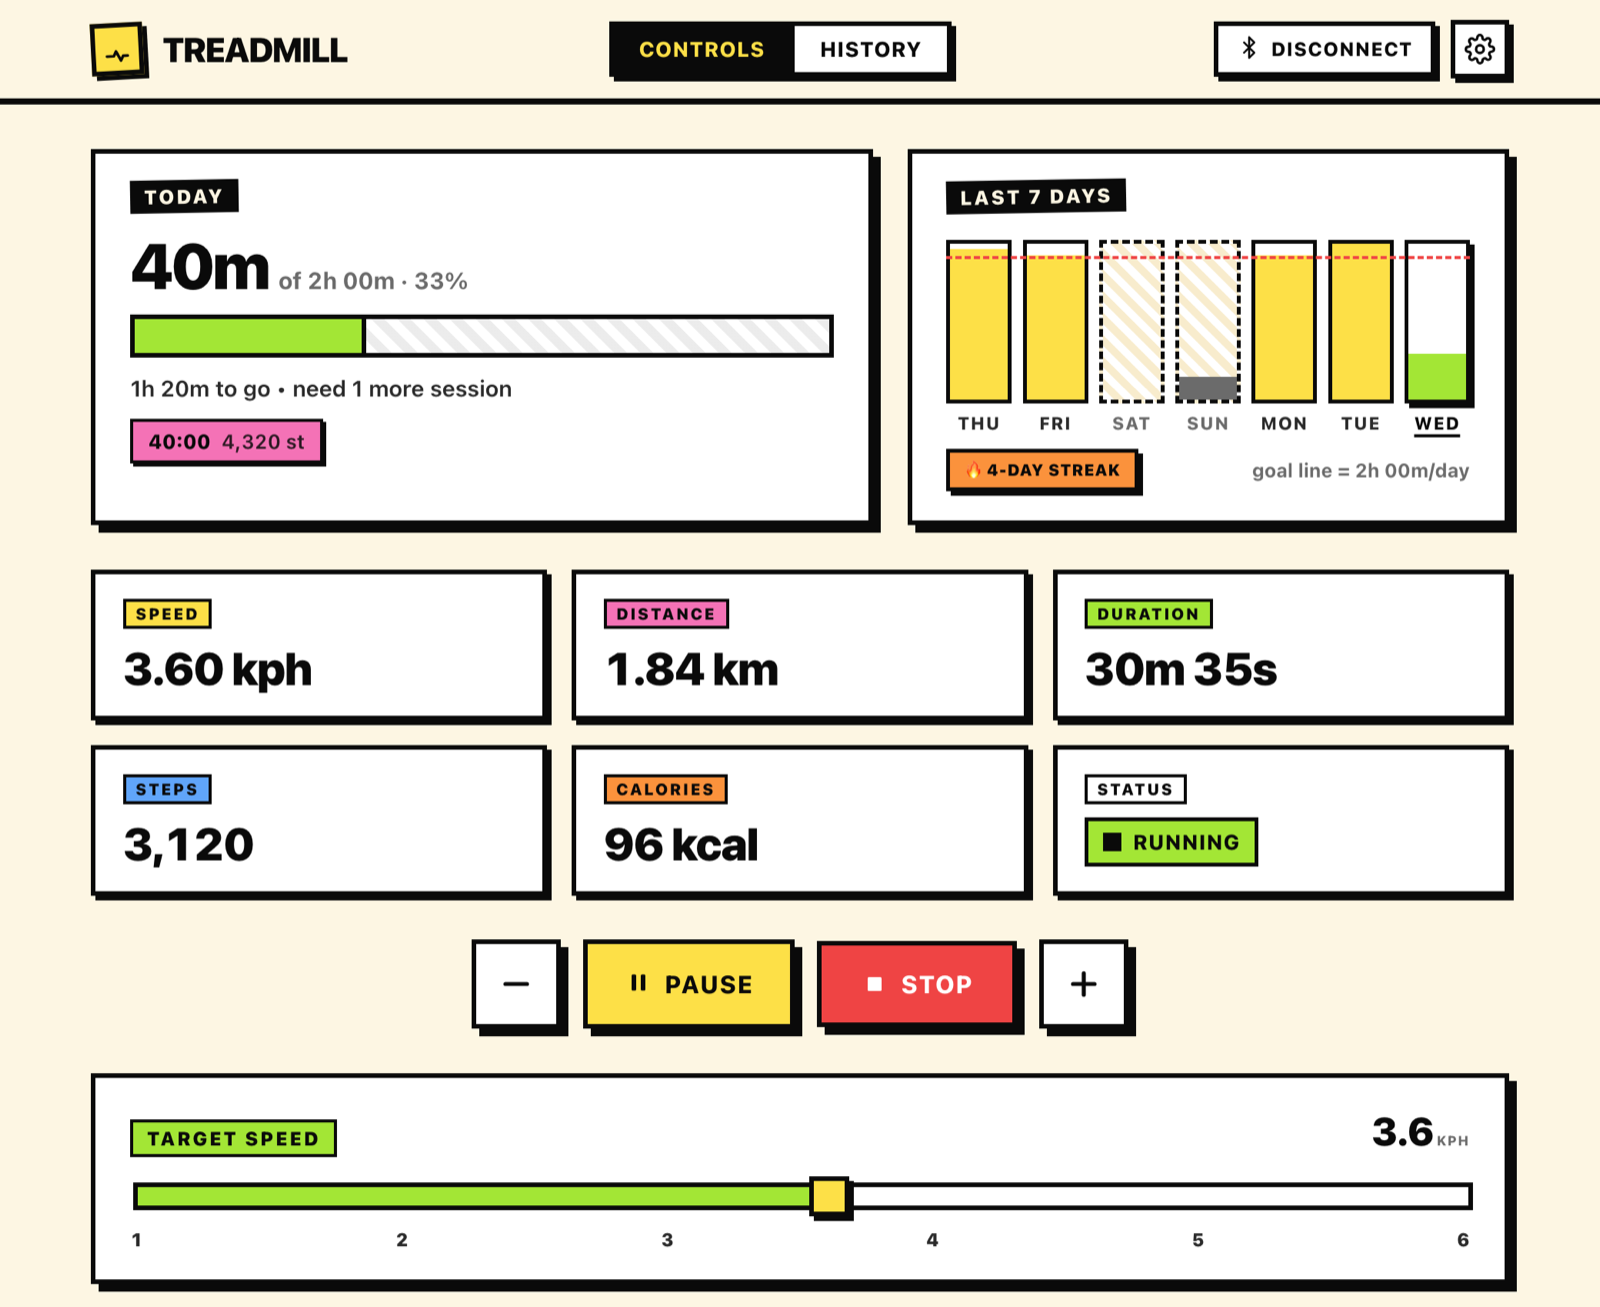
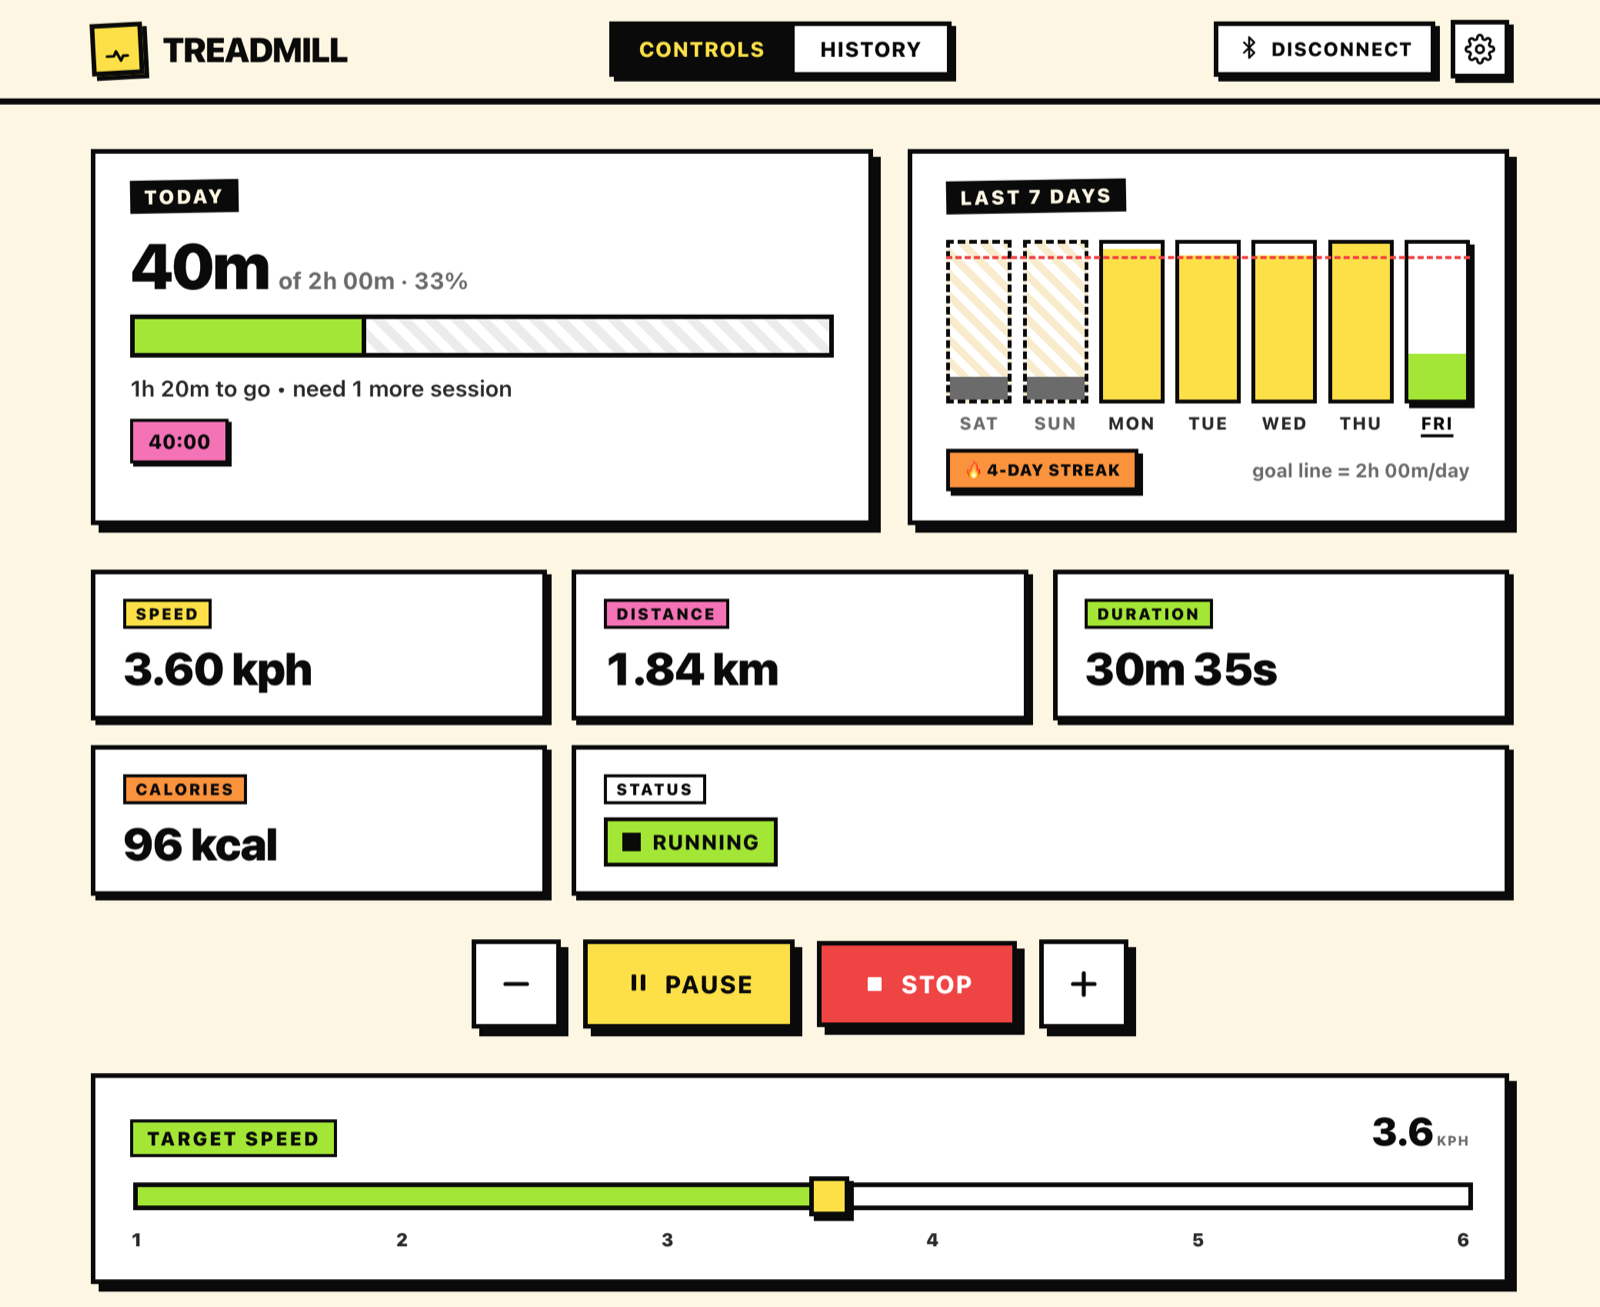
fix: slider follows the treadmill's speed; remove steps
- Speed slider: connecting mid-walk left it at 1 km/h, so +/- stepped
  from 1.0 instead of the real speed (4.0 + 0.1 sent 1.1). Follow the
  target speed the treadmill reports (bytes 5..6) while running,
  including changes made with the remote. Hold off while the slider is
  dragged or our own command is still taking effect; fall back to the
  current speed only when no target is reported.
- Steps: the step fields never reported anything on the test treadmill.
  Drop the Steps tile, the History column, the per-walk badge and step
  recording. Old history entries keep their steps field; it is just no
  longer shown.
- Service worker: revalidate with the server (cache: no-cache), so the
  browser's HTTP cache can't serve an old index.html next to new scripts
  after an update.

diff --git a/treadmill.js b/treadmill.js
@@ -14,7 +14,6 @@ const btNotice = document.getElementById('btNotice');
 const speedDiv = document.getElementById('speed');
 const distanceDiv = document.getElementById('distance');
 const caloriesDiv = document.getElementById('calories');
-const stepsDiv = document.getElementById('steps');
 const durationDiv = document.getElementById('duration');
 const startBtn = document.getElementById('startBtn');
 const stopBtn = document.getElementById('stopBtn');
@@ -76,7 +75,7 @@ function renderSessionTable() {
     historyTableBody.replaceChildren();
     if (sessions.length === 0) {
         const td = historyTableBody.insertRow().insertCell();
-        td.colSpan = 6;
+        td.colSpan = 5;
         td.className = 'history-empty';
         td.textContent = 'No sessions yet — your walks will appear here.';
         return;
@@ -87,7 +86,6 @@ function renderSessionTable() {
         if (!isNaN(avgSpeed)) {
             avgSpeedDisplay = avgSpeed.toFixed(2) + ' ' + (s.speedUnit || '');
         }
-        const stepsDisplay = (typeof s.steps === 'number') ? s.steps.toLocaleString() : (s.steps || '—');
         const tr = historyTableBody.insertRow();
         const addCell = (text, className) => {
             const td = tr.insertCell();
@@ -97,7 +95,6 @@ function renderSessionTable() {
         };
         addCell(formatSessionDate(s.date));
         addCell(formatDuration(s.duration || 0));
-        addCell(stepsDisplay, 'num');
         addCell(s.calories || '—', 'num');
         addCell(avgSpeedDisplay, 'num');
         const deleteBtn = document.createElement('button');
@@ -187,7 +184,6 @@ function updateDashboard(data) {
     speedDiv.textContent = data.speed || '—';
     distanceDiv.textContent = data.distance || '—';
     caloriesDiv.textContent = data.calories || '—';
-    stepsDiv.textContent = (data.steps !== undefined && data.steps !== null && data.steps !== '-') ? data.steps : '—';
     if (data.duration && typeof data.duration === 'number') {
         durationDiv.textContent = formatDuration(data.duration);
     } else if (typeof data.duration === 'string' && !isNaN(parseFloat(data.duration))) {
@@ -281,8 +277,34 @@ function formatDuration(seconds) {
 }
 
 let pendingData = null;
+let lastCommandMs = 0;
 function send_data(packet) {
     pendingData = packet;
+    lastCommandMs = Date.now();
+}
+
+// The slider follows the treadmill's own target speed, so it is right after connecting mid-walk or
+// after a change on the remote. Otherwise +/- would step from a stale value (e.g. 4.0 → 1.1).
+// It holds off while the user drags the slider or a command of ours is still taking effect.
+const SPEED_FOLLOW_GRACE_MS = 3000;
+const SPEED_FOLLOW_FALLBACK_GRACE_MS = 15000;
+let sliderHeld = false;
+function followTreadmillSpeed(targetSpeed, currentSpeed) {
+    if (pendingData || sliderHeld) return;
+    const sinceCommand = Date.now() - lastCommandMs;
+    let speed;
+    if (targetSpeed >= 1000 && targetSpeed <= 6000) {
+        if (sinceCommand < SPEED_FOLLOW_GRACE_MS) return;
+        speed = targetSpeed;
+    } else {
+        // No usable target speed: the current speed lags while the belt ramps up, so wait longer after a command.
+        if (sinceCommand < SPEED_FOLLOW_FALLBACK_GRACE_MS) return;
+        speed = currentSpeed;
+    }
+    speed = Math.round(speed / 100) * 100;
+    if (speed < 1000 || speed > 6000 || speed === curTargetSpeed) return;
+    curTargetSpeed = speed;
+    syncSliderToTargetSpeed();
 }
 
 function bluetoothUnavailableMessage() {
@@ -427,7 +449,6 @@ function handleNotification(event) {
             speed: "-",
             distance: "-",
             calories: "-",
-            steps: "-",
             duration: "-",
             status: "Invalid"
         };
@@ -448,9 +469,9 @@ function handleNotification(event) {
     }
 
     const current_speed = u16(3);
+    const target_speed = u16(5);
     const distance = u32(7);
     const calories = (value.getUint8(18) << 8) | value.getUint8(19);
-    const steps = u32(14);
     const duration = u32(20);
     const flags = value.getUint8(26);
     const unit_mode = (flags & 128) === 128 ? 1 : 0;
@@ -467,15 +488,15 @@ function handleNotification(event) {
         speed: (current_speed / 1000).toFixed(2) + " " + speed_unit,
         distance: (distance / 1000).toFixed(2) + " " + distance_unit,
         calories: calories + " kcal",
-        steps: steps,
         duration: Math.round(duration / 1000),
         status: statusArr[running_state] || "Unknown",
-        _raw: { current_speed, distance, calories, steps, duration, speed_unit }
+        _raw: { current_speed, target_speed, distance, calories, duration, speed_unit }
     };
 
     debugLog("Parsed treadmill data:", treadmillData);
     updateDashboard(treadmillData);
     updateRunningState(running_state);
+    if (running_state === 1) followTreadmillSpeed(target_speed, current_speed);
 
     const MERGE_WINDOW_MS = 60 * 1000;
     const MAX_TICK_MS = 10 * 1000;
@@ -491,14 +512,13 @@ function handleNotification(event) {
                 const lastEnd = last.date + last.duration * 1000;
                 const inWindow = now - lastEnd < MERGE_WINDOW_MS && now - lastEnd > -MAX_TICK_MS;
                 const prevKcal = parseFloat(last.calories) || 0;
-                const countersConsistent = steps >= (last.steps || 0) && calories >= prevKcal;
+                const countersConsistent = calories >= prevKcal;
                 if (inWindow && countersConsistent) resumed = last;
             }
             if (resumed) {
                 const prevKcal = parseFloat(resumed.calories) || 0;
                 sessionStartData = {
                     date: resumed.date,
-                    stepsBase: steps - (resumed.steps || 0),
                     calBase: calories - prevKcal,
                     durMsAccum: (resumed.duration || 0) * 1000,
                     lastTickMs: now,
@@ -509,7 +529,6 @@ function handleNotification(event) {
             } else {
                 sessionStartData = {
                     date: now,
-                    stepsBase: steps,
                     calBase: calories,
                     durMsAccum: 0,
                     lastTickMs: now,
@@ -528,13 +547,11 @@ function handleNotification(event) {
         }
 
         const durationSec = Math.round(sessionStartData.durMsAccum / 1000);
-        const sessionSteps = Math.max(0, steps - sessionStartData.stepsBase);
         const sessionCal = Math.max(0, calories - sessionStartData.calBase);
         const avgSpeed = (sessionStartData.speedSum / sessionStartData.speedCount) / 1000;
         upsertLiveSession({
             date: sessionStartData.date,
             duration: durationSec,
-            steps: sessionSteps,
             calories: sessionCal + ' kcal',
             avgSpeed: avgSpeed,
             speedUnit: sessionStartData.speedUnit || ''
@@ -679,6 +696,8 @@ speedDownBtn.addEventListener('click', () => {
 speedSlider.addEventListener('input', () => {
     sliderValue.textContent = parseFloat(speedSlider.value).toFixed(1);
 });
+speedSlider.addEventListener('pointerdown', () => { sliderHeld = true; });
+['pointerup', 'pointercancel'].forEach(type => window.addEventListener(type, () => { sliderHeld = false; }));
 speedSlider.addEventListener('change', () => {
     if (!connected) return;
     curTargetSpeed = Math.round(parseFloat(speedSlider.value) * 1000);

diff --git a/index.html b/index.html
@@ -230,7 +230,6 @@
         }
         .session-chip:nth-child(3n+2) { background: var(--blue); }
         .session-chip:nth-child(3n) { background: var(--lime); }
-        .session-chip .chip-meta { font-weight: 600; opacity: 0.85; margin-left: 4px; }
         .session-chip--short { background: var(--surface) !important; color: var(--ink-mute); }
         .session-chip--empty {
             background: transparent;
@@ -407,9 +406,9 @@
         .stat:nth-child(1) .stat-label-pill { background: var(--yellow); }
         .stat:nth-child(2) .stat-label-pill { background: var(--pink); }
         .stat:nth-child(3) .stat-label-pill { background: var(--lime); }
-        .stat:nth-child(4) .stat-label-pill { background: var(--blue); }
-        .stat:nth-child(5) .stat-label-pill { background: var(--orange); }
-        .stat:nth-child(6) .stat-label-pill { background: var(--surface); }
+        .stat:nth-child(4) .stat-label-pill { background: var(--orange); }
+        .stat:nth-child(5) .stat-label-pill { background: var(--surface); }
+        .stat--wide { grid-column: span 2; }
         .stat-label-pill {
             display: inline-block;
             background: var(--yellow);
@@ -947,14 +946,10 @@
                         <span class="stat-value" id="duration">—</span>
                     </div>
                     <div class="stat">
-                        <span class="stat-label-pill">Steps</span>
-                        <span class="stat-value" id="steps">—</span>
-                    </div>
-                    <div class="stat">
                         <span class="stat-label-pill">Calories</span>
                         <span class="stat-value" id="calories">—</span>
                     </div>
-                    <div class="stat">
+                    <div class="stat stat--wide">
                         <span class="stat-label-pill">Status</span>
                         <span id="statusChip" class="status-chip chip-disconnected">
                             <span class="status-dot"></span>
@@ -1014,7 +1009,6 @@
                             <tr>
                                 <th>Date</th>
                                 <th>Duration</th>
-                                <th class="num">Steps</th>
                                 <th class="num">Calories</th>
                                 <th class="num">Avg Speed</th>
                                 <th></th>

diff --git a/sw.js b/sw.js
@@ -1,5 +1,5 @@
 
-const CACHE_NAME = 'treadmill-v6';
+const CACHE_NAME = 'treadmill-v7';
 const SHELL = [
     './',
     './index.html',
@@ -32,12 +32,17 @@ self.addEventListener('activate', (event) => {
 });
 
 // Network first: a new deploy shows up on the next online launch. The cache only answers
-// when offline, or when the local dev server isn't running.
+// when offline, or when the local dev server isn't running. 'no-cache' makes the browser
+// revalidate with the server, so its HTTP cache can't hand out an old index.html next to new scripts.
 self.addEventListener('fetch', (event) => {
     const request = event.request;
     if (request.method !== 'GET' || new URL(request.url).origin !== self.location.origin) return;
+    // A navigation request can't be copied with new options, so fetch it by URL.
+    const fresh = request.mode === 'navigate'
+        ? fetch(request.url, { cache: 'no-cache' })
+        : fetch(request, { cache: 'no-cache' });
     event.respondWith(
-        fetch(request).then(resp => {
+        fresh.then(resp => {
             if (resp.ok && resp.type === 'basic') {
                 const respClone = resp.clone();
                 caches.open(CACHE_NAME).then(c => c.put(request, respClone)).catch(() => {});

diff --git a/goals.js b/goals.js
@@ -197,8 +197,7 @@
                 const isShort = (s.duration || 0) < minSecs;
                 const cls = isShort ? 'session-chip session-chip--short' : 'session-chip';
                 const prefix = isShort ? '· ' : '';
-                const steps = (typeof s.steps === 'number') ? ` <span class="chip-meta">${s.steps.toLocaleString()} st</span>` : '';
-                return `<span class="${cls}">${prefix}${fmtChip(s.duration || 0)}${steps}</span>`;
+                return `<span class="${cls}">${prefix}${fmtChip(s.duration || 0)}</span>`;
             }).join('')
             : '<span class="session-chip session-chip--empty">no sessions yet</span>';
 

diff --git a/README.md b/README.md
@@ -10,7 +10,7 @@ The stock app wants an account, your phone number, a notification permission to 
 
 ## What it does
 
-- **Live readout.** Speed, distance, duration, steps, calories and belt state, updated with every Bluetooth notification.
+- **Live readout.** Speed, distance, duration, calories and belt state, updated with every Bluetooth notification.
 - **Speed control.** 1–6 km/h slider plus ±0.1 buttons. Slider and buttons stay in sync; whichever you touch wins.
 - **Daily goal.** Pick minutes per day. Today's progress, a 7-day bar chart and a weekday streak (weekends optional). A minimum session length makes two real walks count, not one long one plus a few seconds.
 - **Auto-logged history.** Every walk is recorded as it happens. Pausing keeps the walk going, and stopping and restarting within 60 s continues it instead of starting a new one.
@@ -83,9 +83,9 @@ All paths are relative, so the app works from a sub-path like that without chang
 | `notifications.js` | Reminder logic and activity detection |
 | `sw.js` | Offline cache and background reminder checks |
 
-**Protocol.** The treadmill exposes service `0000fba0-…`, notifies on characteristic `fba2` and accepts writes on `fba1`. Each notification (≥ 31 bytes, big-endian) carries speed (`u16` at byte 3, ×1000), distance (`u32` at 7), steps (`u32` at 14), calories (`u16` at 18), elapsed time in ms (`u32` at 20) and a flags byte at 26 (bit 7: imperial units, bits 3–4: starting / running / paused / stopped). The app answers every notification with either a queued command or a heartbeat (`6a 05 fd f8 43`). Commands are 23-byte packets starting `6a 17`, carrying target speed and a start / pause / stop code, with an XOR checksum over bytes 1–20 and a trailing `43`.
+**Protocol.** The treadmill exposes service `0000fba0-…`, notifies on characteristic `fba2` and accepts writes on `fba1`. Each notification (≥ 31 bytes, big-endian) carries speed (`u16` at byte 3, ×1000), target speed (`u16` at 5), distance (`u32` at 7), calories (`u16` at 18), elapsed time in ms (`u32` at 20) and a flags byte at 26 (bit 7: imperial units, bits 3–4: starting / running / paused / stopped). Steps aren't shown: the step fields stayed at 0 on the hardware this was tested with. The app answers every notification with either a queued command or a heartbeat (`6a 05 fd f8 43`). Commands are 23-byte packets starting `6a 17`, carrying target speed and a start / pause / stop code, with an XOR checksum over bytes 1–20 and a trailing `43`.
 
-**Data.** Sessions are stored in `localStorage` under `treadmill_sessions`, newest first: `{ date, duration, steps, calories, avgSpeed, speedUnit }`, with `date` as a Unix timestamp in ms and `duration` in seconds. A copy goes to IndexedDB so the service worker can read it.
+**Data.** Sessions are stored in `localStorage` under `treadmill_sessions`, newest first: `{ date, duration, calories, avgSpeed, speedUnit }`, with `date` as a Unix timestamp in ms and `duration` in seconds. A copy goes to IndexedDB so the service worker can read it.
 
 ## Safety
 
